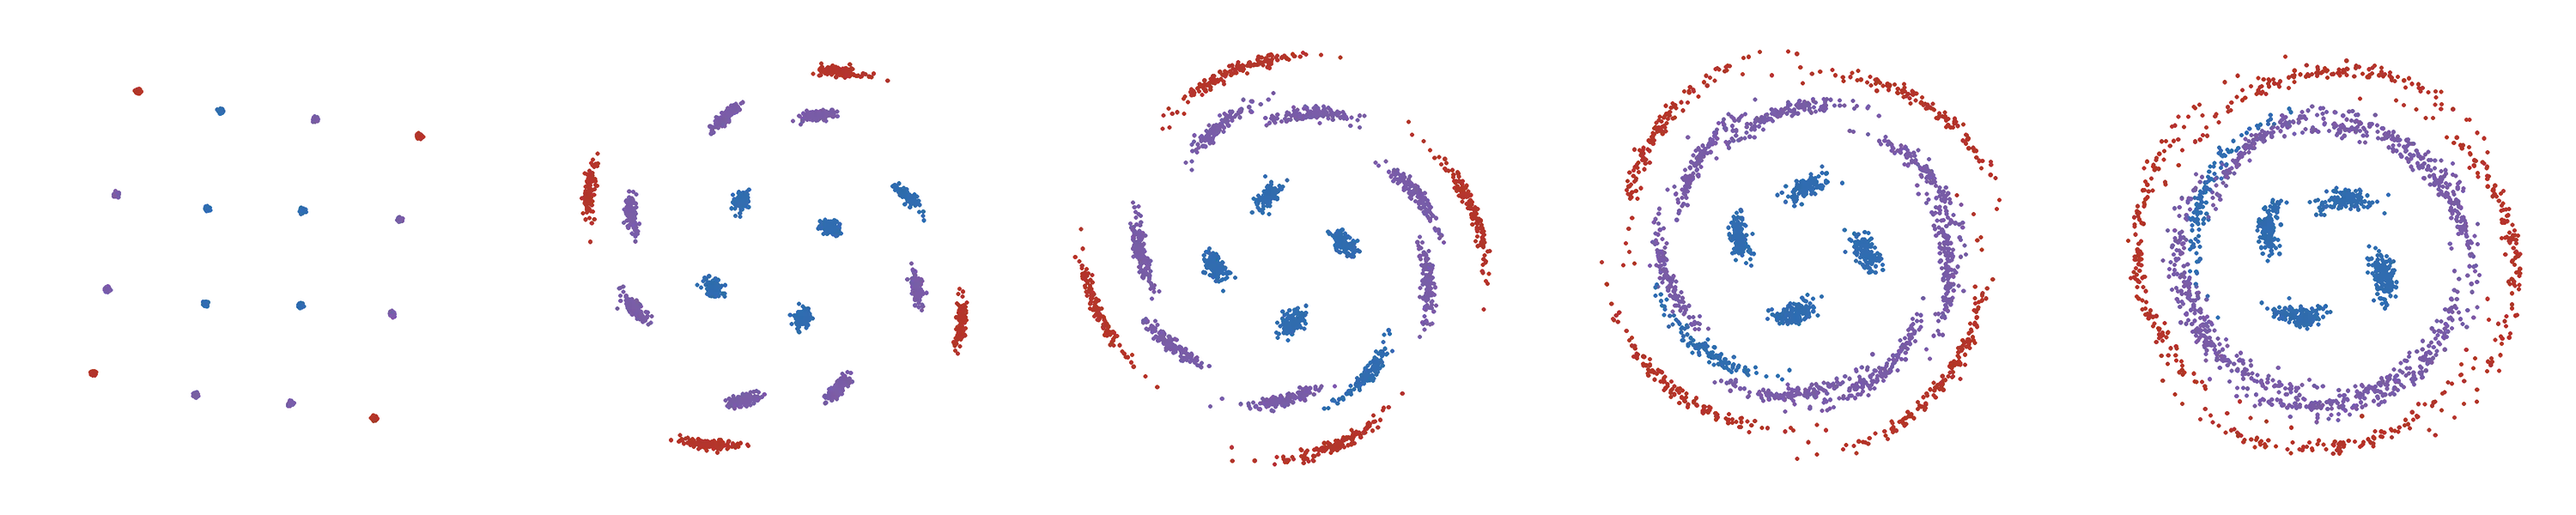
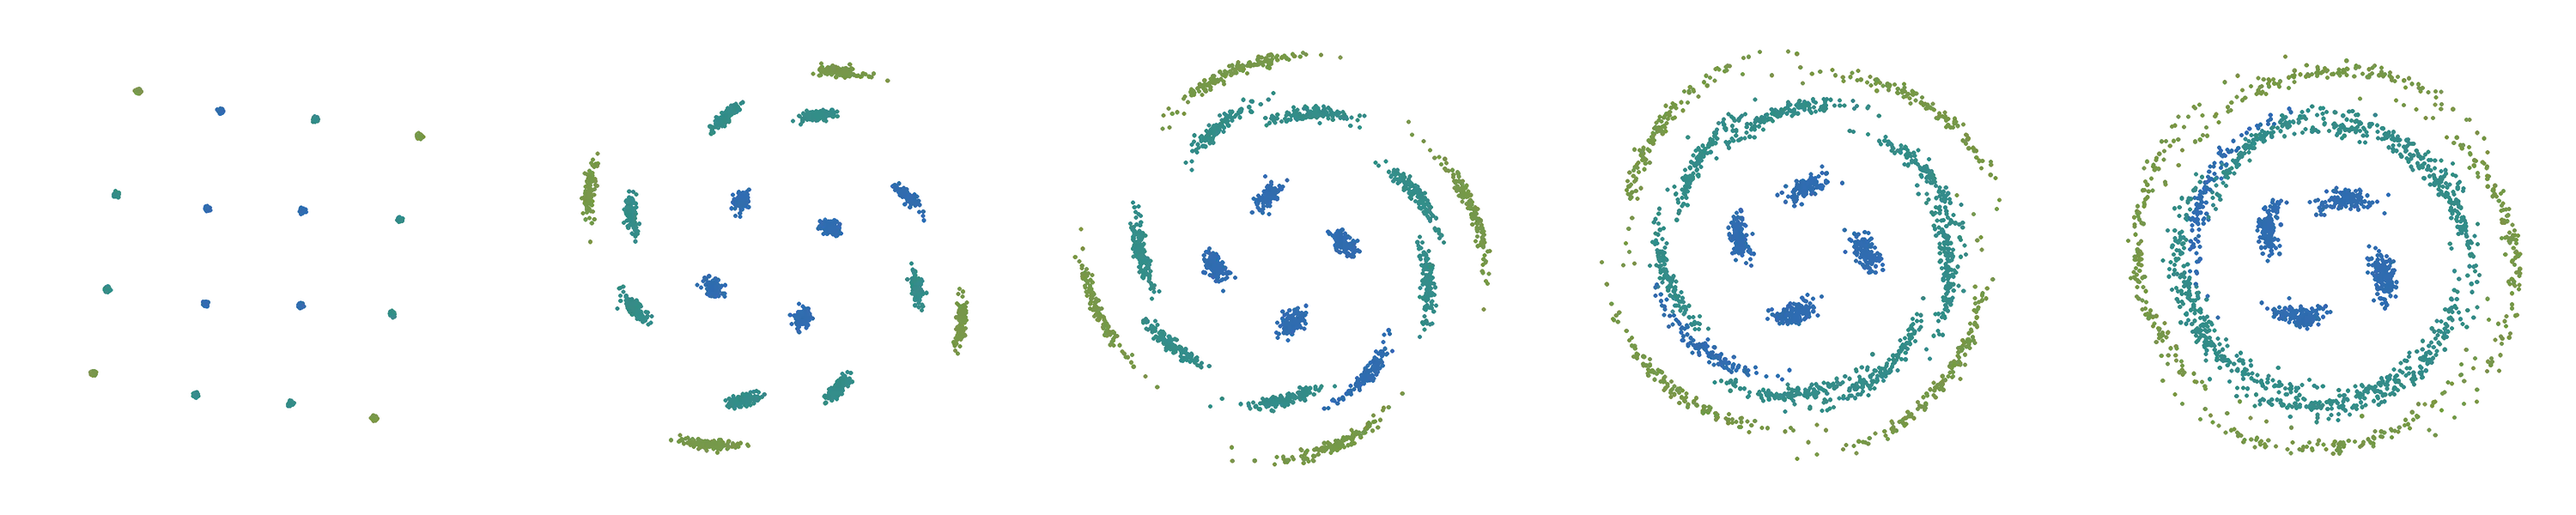
Profile: constellation art in blue, teal and green
Claude-Session: https://claude.ai/code/session_01GPCHYsipECdijHViPzeNJr

diff --git a/README.md b/README.md
@@ -43,13 +43,13 @@ I studied light: entangled photons in Colombia, then fibre optics and machine le
 
 A fibre's Kerr effect turns bright symbols further than dim ones, and a square constellation winds into a spiral that straight decision lines cannot separate. Instead of modelling the fibre, I let a classifier learn the decision regions from the received symbols.
 
-<img src="assets/journey.webp" alt="Five constellations: a neat grid of blue, violet and red points winding into crescents, then rings, as the signal travels further" width="100%">
+<img src="assets/journey.webp" alt="Five constellations: a neat grid of blue, teal and green points winding into crescents, then rings, as the signal travels further" width="100%">
 
-<sub>The thesis in one row: 16-QAM at 1 mW after 0, 16, 32, 48 and 63 spans of 80 km. Each point is a received symbol, coloured by the power of the symbol sent: blue inner, violet middle, red outer. The brighter the symbol, the further the fibre turns it.</sub>
+<sub>The thesis in one row: 16-QAM at 1 mW after 0, 16, 32, 48 and 63 spans of 80 km. Each point is a received symbol, coloured by the power of the symbol sent: blue inner, teal middle, green outer. The brighter the symbol, the further the fibre turns it.</sub>
 
 <table>
 <tr>
-<td width="50%"><img src="assets/spiral.webp" alt="Span 63: red and violet symbols smeared into rings around four tight blue clusters" width="100%"></td>
+<td width="50%"><img src="assets/spiral.webp" alt="Span 63: green and teal symbols smeared into rings around four tight blue clusters" width="100%"></td>
 <td width="50%"><img src="assets/regions.webp" alt="The same symbols inside the flat tinted regions a random forest learned, following the rings" width="100%"></td>
 </tr>
 <tr>
